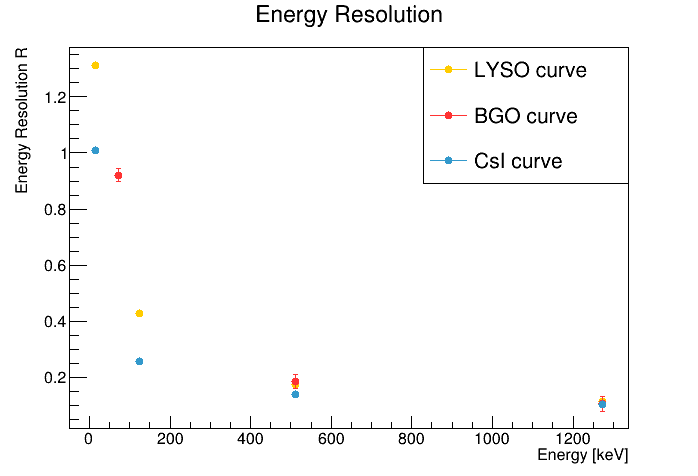
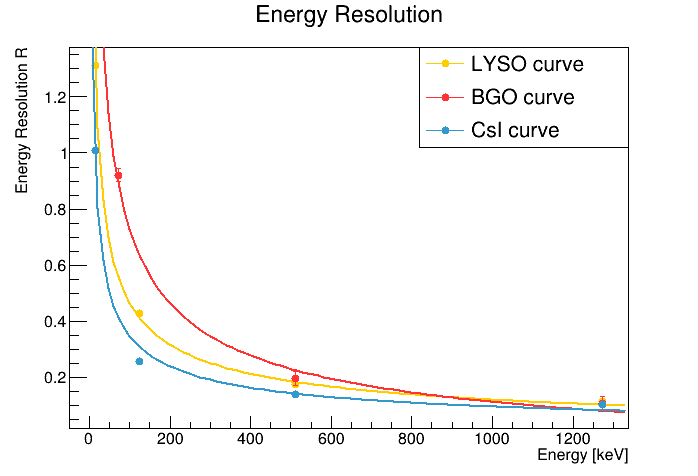
Add files via upload

diff --git a/Calibration/all_ris.cpp b/Calibration/all_ris.cpp
@@ -22,7 +22,7 @@ int main (int argc, char ** argv)
 	      	return 1;
     	}
     	
-    	gStyle->SetOptFit(1112);	
+    	gStyle->SetOptFit(0);	
     	
     	TApplication* myApp = new TApplication("myApp", NULL, NULL);
   	TCanvas* myC = new TCanvas("myC","myC",0,0,700,500);
@@ -55,12 +55,34 @@ int main (int argc, char ** argv)
   	myGraph3-> SetTitle("CsI curve");
   	myGraph3->SetLineColor(kAzure+5);
   	
+  	TF1* myFun = new TF1 ("myFun","[0]/sqrt(x)+[1]");
+  	myFun->SetParName(0,"k");
+  	myFun->SetParName(1,"q");
+  	TF1* myFun1 = new TF1 ("myFun1","[0]/sqrt(x)+[1]");
+  	myFun1->SetParName(0,"k");
+  	myFun1->SetParName(1,"q");
+  	TF1* myFun2 = new TF1 ("myFun2","[0]/sqrt(x)+[1]");
+  	myFun2->SetParName(0,"k");
+  	myFun2->SetParName(1,"q");
+  	
+  	myFun->SetLineColor(kOrange);
+	myFun1->SetLineColor(kRed-4);
+	myFun2->SetLineColor(kAzure+5);
 
 	// disegno
 	myC->cd();
+	myGraph1->Fit("myFun");
+	myGraph2->Fit("myFun1");
+	myGraph3->Fit("myFun2");
+	
+	
 	mg->Add(myGraph1);
 	mg->Add(myGraph2);
 	mg->Add(myGraph3);
+	
+	myFun->Draw("same");
+	myFun1->Draw("same");
+	myFun2->Draw("same");
 	
 	mg->GetXaxis()->SetTitle("Energy [keV]");
   	mg->GetYaxis()->SetTitle("Energy Resolution R");
